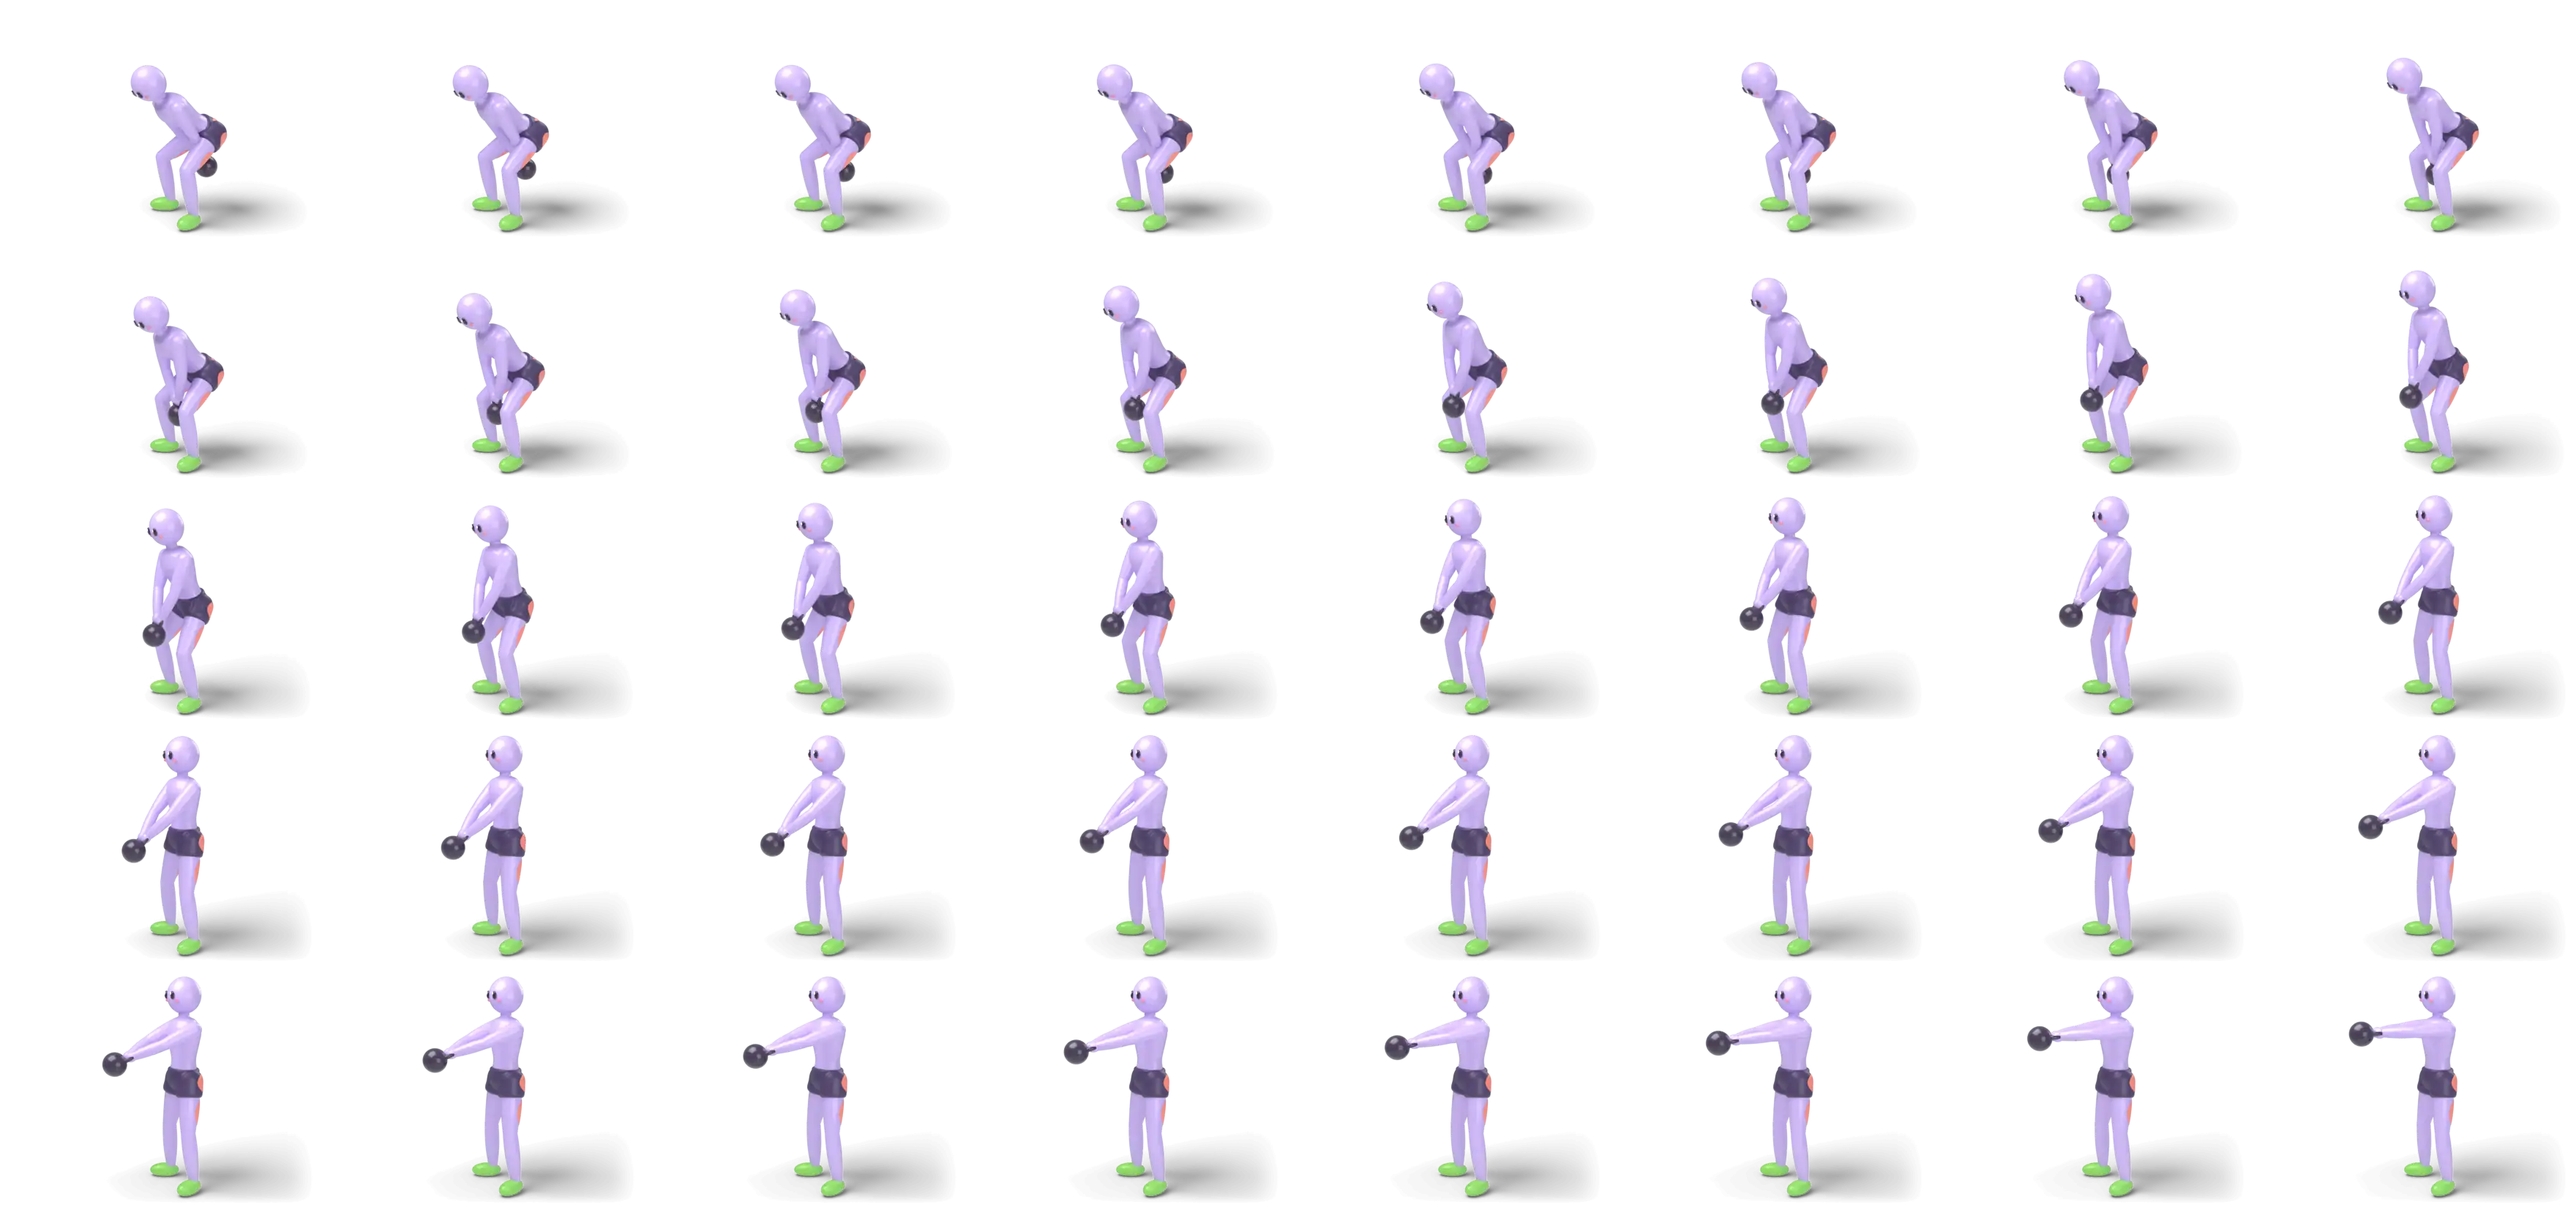
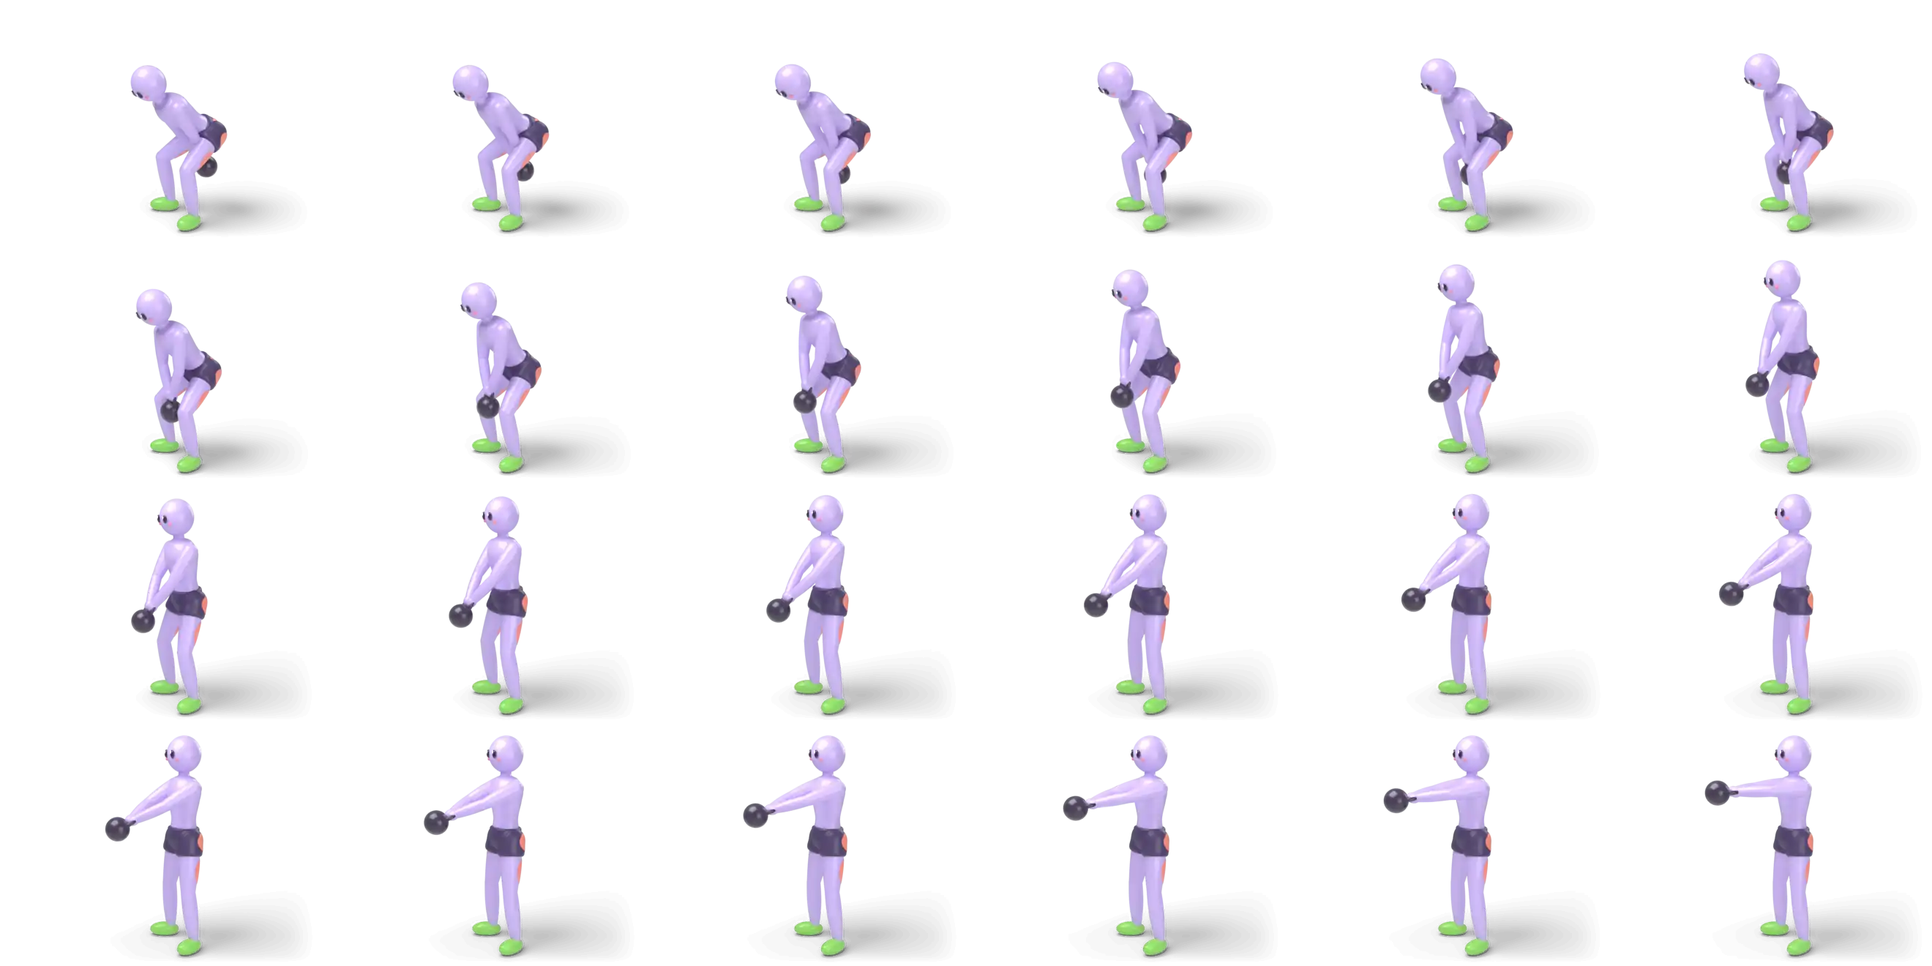
feat: alle 113 animaties gebouwd (24 beelden per oefening, samen 14,4 MB), met een schaduw zonder ringen [ios]
De eerste build kwantiseerde de alfa van de schaduw in stappen van 12; op wit waren dat ringen.
test_build.py faalde daarop en slaagt met stappen van 4 en een zachtere schaduw.

diff --git a/design/oefeningen/3d/build.py b/design/oefeningen/3d/build.py
@@ -7,6 +7,7 @@ ExerciseAnimations.json met in welke volgorde de app ze toont.
 """
 import json
 import sys
+from concurrent.futures import ProcessPoolExecutor
 from pathlib import Path
 
 from PIL import Image, ImageChops, ImageFilter
@@ -16,6 +17,8 @@ import poses
 COLUMNS = 6
 QUALITY = 50
 SHADOW_FADE = 48
+# Coarser than 4 shows as rings on white; softer and lighter keeps the fine steps small in bytes.
+SHADOW_STEP, SHADOW_BLUR, SHADOW_STRENGTH = 4, 4, 0.75
 # The floor is near the bottom edge: a wide fade there would eat the shadow under the feet.
 FLOOR_FADE = 14
 TARGET = Path(__file__).resolve().parents[3] / 'Fitling/Resources/ExerciseAnimations'
@@ -42,27 +45,34 @@ def clean(image, fade):
     brightest = ImageChops.lighter(ImageChops.lighter(red, green), blue)
     is_shadow = brightest.point(lambda value: 255 if value < 10 else 0).filter(ImageFilter.MinFilter(3))
     # The render's grain in the shadow is most of the file; blurred, the shadow takes a fraction of the bytes.
-    faded = ImageChops.multiply(alpha.filter(ImageFilter.GaussianBlur(1)), fade)
-    faded = ImageChops.darker(faded, alpha.filter(ImageFilter.MaxFilter(3)))
-    alpha = Image.composite(faded, alpha, is_shadow).point(
-        lambda value: 0 if value < 10 else 255 if value > 243 else round(value / 12) * 12)
+    faded = ImageChops.multiply(alpha.filter(ImageFilter.GaussianBlur(SHADOW_BLUR)), fade)
+    faded = ImageChops.darker(faded, alpha.filter(ImageFilter.MaxFilter(3))).point(
+        lambda value: 0 if value * SHADOW_STRENGTH < 3 else round(value * SHADOW_STRENGTH / SHADOW_STEP) * SHADOW_STEP)
+    # The edges of the figure can do with few steps.
+    edges = alpha.point(lambda value: 0 if value < 10 else 255 if value > 243 else round(value / 12) * 12)
+    alpha = Image.composite(faded, edges, is_shadow)
     return Image.merge('RGBA', (red, green, blue, alpha))
+
+
+def make_sheet(rendered, slug):
+    frames = [Image.open(rendered / slug / f'{index:02d}.png').convert('RGBA') for index in range(poses.FRAMES)]
+    width, height = frames[0].size
+    fade = edge_fade(width, height)
+    sheet = Image.new('RGBA', (COLUMNS * width, -(-poses.FRAMES // COLUMNS) * height))
+    for index, frame in enumerate(frames):
+        sheet.paste(clean(frame, fade), (index % COLUMNS * width, index // COLUMNS * height))
+    path = TARGET / f'{poses.EXERCISES[slug].id}.webp'
+    sheet.save(path, 'WEBP', quality=QUALITY, alpha_quality=100, method=6)
+    return f'{slug}: {path.stat().st_size // 1024} KB'
 
 
 def build(rendered):
     TARGET.mkdir(parents=True, exist_ok=True)
-    animations = {}
-    for slug, motion in poses.EXERCISES.items():
-        frames = [Image.open(rendered / slug / f'{index:02d}.png').convert('RGBA') for index in range(poses.FRAMES)]
-        width, height = frames[0].size
-        fade = edge_fade(width, height)
-        sheet = Image.new('RGBA', (COLUMNS * width, -(-poses.FRAMES // COLUMNS) * height))
-        for index, frame in enumerate(frames):
-            sheet.paste(clean(frame, fade), (index % COLUMNS * width, index // COLUMNS * height))
-        path = TARGET / f'{motion.id}.webp'
-        sheet.save(path, 'WEBP', quality=QUALITY, alpha_quality=100, method=6)
-        animations[motion.id] = motion.sequence()
-        print(f'{slug}: {path.stat().st_size // 1024} KB')
+    slugs = list(poses.EXERCISES)
+    with ProcessPoolExecutor() as pool:
+        for line in pool.map(make_sheet, [rendered] * len(slugs), slugs):
+            print(line)
+    animations = {motion.id: motion.sequence() for motion in poses.EXERCISES.values()}
     manifest = {'fps': poses.FPS, 'frames': poses.FRAMES, 'columns': COLUMNS, 'animations': animations}
     text = json.dumps(manifest, separators=(',', ':'), sort_keys=True).replace('],"', '],\n"') + '\n'
     (TARGET / 'ExerciseAnimations.json').write_bytes(text.encode('utf-8'))

diff --git a/design/oefeningen/3d/test_build.py b/design/oefeningen/3d/test_build.py
@@ -1,0 +1,26 @@
+"""De schaduw uit build.py loopt zonder zichtbare ringen uit (Pillow nodig, anders overgeslagen)."""
+import unittest
+
+try:
+    from PIL import Image
+
+    import build
+except ImportError:
+    Image = None
+
+
+@unittest.skipIf(Image is None, 'Pillow ontbreekt')
+class Shadow(unittest.TestCase):
+    def test_a_soft_shadow_has_no_rings(self):
+        # Black with an alpha that runs out from 150 to 0: what the shadow catcher renders.
+        frame = Image.new('RGBA', (440, 330))
+        frame.putdata([(0, 0, 0, round(150 * max(0, 1 - abs(x - 220) / 180))) for _ in range(330) for x in range(440)])
+        alpha = build.clean(frame, build.edge_fade(440, 330)).getchannel('A')
+        levels = sorted({alpha.getpixel((x, 165)) for x in range(440)})
+        self.assertGreater(len(levels), 12)
+        for lower, higher in zip(levels, levels[1:]):
+            self.assertLessEqual(higher - lower, 5, 'a step this big shows as a ring on white')
+
+
+if __name__ == '__main__':
+    unittest.main()
